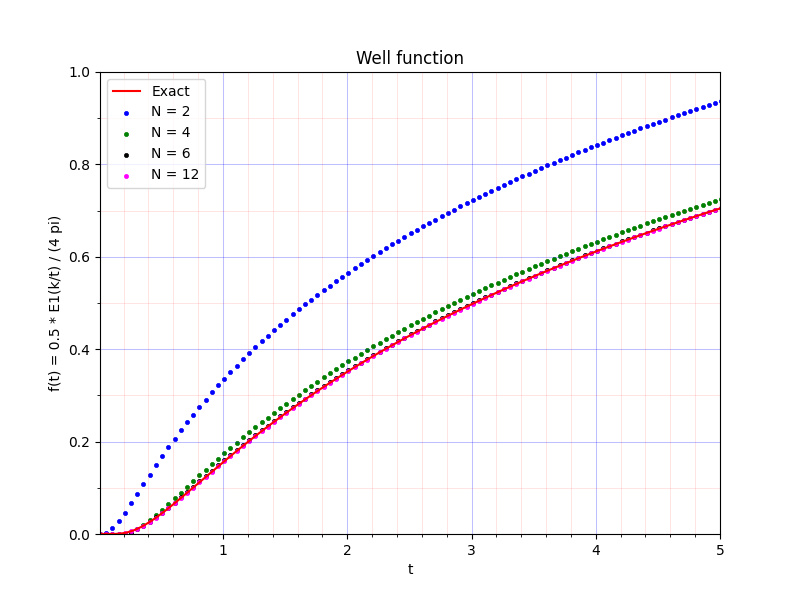
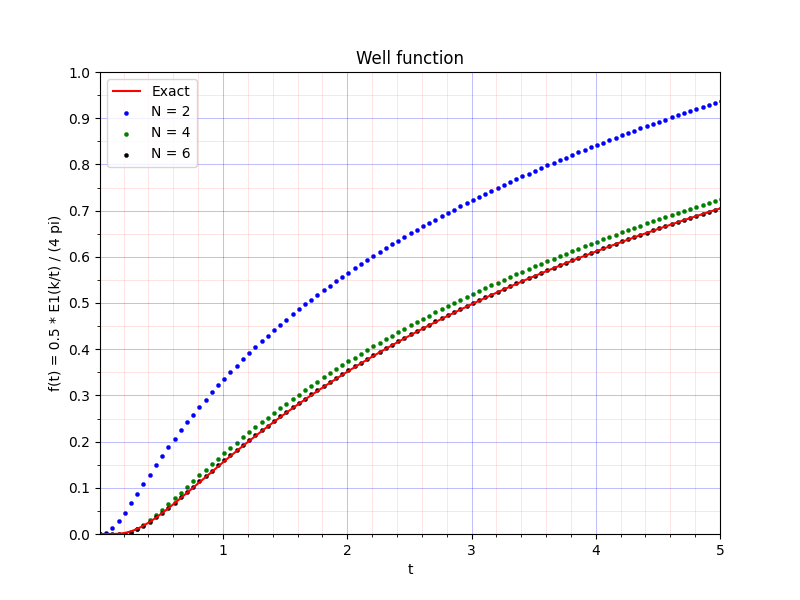
laplace.tex : Sehfest discussion

diff --git a/Book/sandbox/laplace.tex b/Book/sandbox/laplace.tex
@@ -481,10 +481,142 @@
 		\end{equation}
 		
 		Since the coefficients $V_i$ only depend on the value of $N$, so they only need to be calculated once. The value of $N$ must be even.
+		
+		The values of Stehfest's coefficients for a few values of $N$ are given in Table \ref*{tab:Stehfest coefficients}.
+		
+		\begin{table}[H]\label{tab:Stehfest coefficients}
+			\centering
+			\caption{Table of coefficients in Stehfest's inversion method fo a few values of $N$}
+		\begin{tabular}{|r|r|r|r|r|r|r|}
+			\hline
+			i & N=2  & N=4     & N=6     & N=8            & N=10            & N=12\\
+			\hline
+			1 &  2.0 &   -2.0  &     1.0 &      -0.333333 &        0.083333 &  -1.666667e-02 \\
+			2 & -2.0 &   26.0  &   -49.0 &      48.333333 &      -32.083333 &   1.601667e+01 \\
+			3 &      &   -48.0 &   366.0 &    -906.000000 &     1279.000000 &  -1.247000e+03 \\
+			4 &      &    24.0 &  -858.0 &    5464.666667 &   -15623.666667 &   2.755433e+04 \\
+			5 &      &         &   810.0 &  -14376.666667 &    84244.166667 &  -2.632808e+05 \\
+			6 &      &         &  -270.0 &   18730.000000 &  -236957.500000 &   1.324139e+06 \\
+			7 &      &         &         &  -11946.666667 &   375911.666667 &  -3.891706e+06 \\
+			8 &      &         &         &    2986.666667 &  -340071.666667 &   7.053286e+06 \\
+			9 &      &         &         &                &   164062.500000 &  -8.005336e+06 \\
+			10 &     &         &         &                &   -32812.500000 &   5.552830e+06 \\
+			11 &     &         &         &                &                 &  -2.155507e+06 \\
+			12 &     &         &         &                &                 &   3.592512e+05 \\
+			\hline
+		\end{tabular}			
+		\end{table}
+		
+
+		
 			A Python implementation of Stehfest's algorithm is contained in the \texttt{lilimod} library (\texttt{lilimaths/stehfest.py}).
 			
 			\subsubsection{Examples of application of Stehfest's method}
-		
+			
+			\paragraph{Exponential Decay\\~}
+			Laplace image: $F(p) = \frac{1}{1 + p}.$ Exact Laplace original: $f(t) = \E^{-t}.$ \\
+			
+			The results of numerical inversion are shown in Figure \ref{fig:stehfestexponentialdecay}. In this case, even with a relatively lower value of N=6 the results are already very accurate.
+			
+			\begin{figure}[H]
+				\centering
+				\includegraphics[width=0.85\linewidth]{../figures/part_1/stehfest_exponential_decay}
+				\caption{Results of numerical Laplace inversion by Stehfest's method for exponential decay.}
+				\label{fig:stehfestexponentialdecay}
+			\end{figure}
+			
+			\paragraph{Sine function\\}
+			Laplace image: $F(p) = \frac{1}{1 + p^2}.$ Exact Laplace original: $f(t) = \sin t.$ \\
+			
+			The results of numerical inversion for this case shown in Figure \ref{fig:stehfestsine} behave differently as compared with the previous case. Whereas the deviation from the exact function in the beginning of the curve ($0 \leq t \lesssim 1.2 $) are reasonably accurate, accuracy drastically falls as the value of the argument grows. Even with the values of order as high as 22, the deviation from the exact solution becomes too high already after the first full oscillation.
+			\begin{figure}[H]
+				\centering
+				\includegraphics[width=0.85\linewidth]{../figures/part_1/stehfest_sine}
+				\caption{Results of numerical Laplace inversion by Stehfest's method for sine function.}
+				\label{fig:stehfestsine}
+			\end{figure}
+			
+			\paragraph{Damped sine function\\}
+			Laplace image: $F(p) = \frac{1}{1 + (p+0.2)^2}.$ Exact Laplace original: $f(t) = \E^{-0.2 t}\sin t.$ \\
+			
+			\begin{figure}[H]
+				\centering
+				\includegraphics[width=0.85\linewidth]{../figures/part_1/stehfest_damped_sine}
+				\caption{Results of numerical Laplace inversion by Stehfest's method for damped sine function.}
+				\label{fig:stehfestdampedsine}
+			\end{figure}
+			
+			The results of numerical inversion for the damped sine curve are shown in Figure \ref{fig:stehfestdampedsine}. Adding a little damping to the process improves the convergence, to an extent, as can bee seen from the behavior of the curves. Nevertheless, the deviations from the exact curve are still significant and tend to become greater as long as the value of time grows.
+			
+			\paragraph{Linear growth\\}
+			Laplace image: $F(p) = \frac{1}{p^2}.$ Exact Laplace original: $f(t) = t.$ \\
+			
+			\begin{figure}[H]
+				\centering
+				\includegraphics[width=0.85\linewidth]{../figures/part_1/stehfest_linear_growth}
+				\caption{Results of numerical Laplace inversion by Stehfest's method for linear function.}
+				\label{fig:stehfestlineargrowth}
+			\end{figure}
+			
+			The results of numerical inversion are shown in Figure \ref{fig:stehfestlineargrowth}. For the case of linear function, even with a relatively lower value of N=6 the results are already very accurate.
+			
+			\paragraph{Asymmetric distribution\\}
+			Laplace image: $F(p) = \frac{1}{(p + 1)^2}.$ Exact Laplace original: $f(t) = t \E^{-t}.$ \\
+			\begin{figure}[H]
+				\centering
+				\includegraphics[width=0.85\linewidth]{../figures/part_1/stehfest_asymmetric_distribution}
+				\caption{Results of numerical Laplace inversion by Stehfest's method for asymmetric distribution.}
+				\label{fig:stehfestasymmetricdistribution}
+			\end{figure}
+			
+			The results of numerical inversion are shown in Figure \ref{fig:stehfestasymmetricdistribution}. As can bee seen, the results become reasonably accurate with the values of $N \geq 10.$
+			
+			\paragraph{Delayed unitary step\\}
+			Laplace image: $F(p) = \frac{\E^{-p}}{p}.$ Exact Laplace original: $f(t) = H(t-1).$ \\
+			
+			\begin{figure}[H]
+				\centering
+				\includegraphics[width=0.85\linewidth]{../figures/part_1/stehfest_delayed_step}
+				\caption{Results of numerical Laplace inversion by Stehfest's method for delayed unitary step.}
+				\label{fig:stehfestdelayedstep}
+			\end{figure}
+			
+			The results of numerical inversion are shown in Figure \ref{fig:stehfestdelayedstep}. Although the accuracy of the computed values of $f(t)$ with big values of time $t \geq 2.5 $can be considered as more or less accurate, behavior of the calculate curves in the vicinity of the original's breakpoint at $t = 1.$ This behavior cannot be improved by increasing of the order of integration. As can be seen from Table \ref{tab:Stehfest coefficients} the values if coefficients rapidly grow to very big values, as the order $N$ grows, which causes numerical instability due to rounding errors in the machine representation of float numbers.
+			
+			\paragraph{Rectangular wave\\}
+			Laplace image: $F(p) = \frac{(\E^{-p} - \E^{-2p})}{p}.$ Exact Laplace original: $f(t) = H(t-1) - H(t-2).$ \\
+			
+			
+			\begin{figure}[H]
+				\centering
+				\includegraphics[width=0.85\linewidth]{../figures/part_1/stehfest_rectanhular_wave}
+				\caption{Results of numerical Laplace inversion by Stehfest's method for rectangular wave}
+				\label{fig:stehfestrectanhularwave}
+			\end{figure}
+			
+			Like in the case of delayed step, the behavior of the Stehfest approximated originals is far from satisfactory. Whereas in the vicinity of $t=0$ and with gig values of time the accuracy can be considered acceptable, the form of rectangular wave cannot be computed by Stehfest integration method. In this particular case, even the value of integration order as high as 26 did not do better. Further increase in the value of $N$ creates numerical instability, as is shown in Figure \ref{fig:stehfestrectanhularwaveunstable}.
+			
+			\begin{figure}[H]
+				\centering
+				\includegraphics[width=0.85\linewidth]{../figures/part_1/stehfest_rectanhular_wave_unstable}
+				\caption{Numerical instability of Stehfest's method for rectangular wave with too high values of integration order.}
+				\label{fig:stehfestrectanhularwaveunstable}
+			\end{figure}
+			
+			Setting $N=28$ for the previous example created numerical instability illustrated by the chaotic cloud of black points in the right part of the graph in Figure \ref{fig:stehfestrectanhularwaveunstable}.
+			
+			\paragraph{Well function\\}
+			Laplace image: $F(p) = \frac{1}{p} K_0\left( 2 \sqrt{0.8 p} \right).$ Exact Laplace original: $f(t) = 0.5 E_1\left( \frac{0.8}{t} \right).$ \\
+			
+			\begin{figure}[H]
+				\centering
+				\includegraphics[width=0.85\linewidth]{../figures/part_1/stehfest_well_function}
+				\caption{Results of numerical Laplace inversion by Stehfest's method for the well function}
+				\label{fig:stehfestwellfunction}
+			\end{figure}
+			
+			The results of numerical inversion are shown in Figure \ref{fig:stehfestwellfunction}. As can bee seen, the results become quite accurate already with the values of $N \geq 6.$
+			
 		\subsection{Method of den Iseger}
 		\subsection{Historical Methods}
 

diff --git a/Code/lilimaths/lilimaths/stehfest_tests.py b/Code/lilimaths/lilimaths/stehfest_tests.py
@@ -63,11 +63,17 @@ if __name__ == '__main__':
     def exponent_original(t: float) -> float:
         return exp(-t)
 
-    def decaying_sine_image(p: float) -> float:
-        return 1 / (1 + (p + 0.5)**2)
+    def sine_image(p: float) -> float:
+        return 1 / (1 + p**2)
 
-    def decaying_sine_original(t: float) -> float:
-        return exp(-0.5 * t) * sin(t)
+    def sine_original(t: float) -> float:
+        return sin(t)
+
+    def damped_sine_image(p: float) -> float:
+        return 1 / (1 + (p + 0.2)**2)
+
+    def damped_sine_original(t: float) -> float:
+        return exp(-0.2 * t) * sin(t)
 
     def linear_image(p: float) -> float:
         return 1 / p**2
@@ -102,7 +108,8 @@ if __name__ == '__main__':
 
     images              = [
                             exponent_image,
-                            decaying_sine_image,
+                            sine_image,
+                            damped_sine_image,
                             linear_image,
                             exponent_multiplied_image,
                             rectangular_wave_image,
@@ -112,7 +119,8 @@ if __name__ == '__main__':
 
     originals           = [
                             exponent_original,
-                            decaying_sine_original,
+                            sine_original,
+                            damped_sine_original,
                             linear_original,
                             exponent_multiplied_original,
                             rectangular_wave_origin,
@@ -122,17 +130,19 @@ if __name__ == '__main__':
 
     titles              = [
                             "Exponential decay",
-                            "Sinusoidal decay",
-                            "Linear function",
-                            "Exponent multiplied",
+                            "Sine curve",
+                            "Damped sine",
+                            "Linear growth",
+                            "Asymmetric distribution",
+                            "Delayed step function",
                             "Rectangular wave",
-                            "Finite rectangular wave",
                             "Well function"
                           ]
 
     original_equations  = [
                             'exp(-t)',
-                            'exp(-0.5t) * sin (t)',
+                            'sin (t)',
+                            'exp(-0.2t) * sin (t)',
                             't',
                             't * exp(-t)',
                             'H(t-1)',
@@ -142,9 +152,9 @@ if __name__ == '__main__':
 
     t_fin = 5
     dt = 0.01
-    context_index = 6
+    context_index = 7
 
-    test_context(images[context_index], [2, 4, 6, 12, 18, 22], originals[context_index], t_fin, dt,
+    test_context(images[context_index], [2, 4, 6], originals[context_index], t_fin, dt,
                  size = (8, 6),
                  min_x=dt,
                  max_x=t_fin,
@@ -153,8 +163,8 @@ if __name__ == '__main__':
                  digits_x=0,
                  major_step_x = 1,
                  minor_step_x = 0.2,
-                 major_step_y=0.2,
-                 minor_step_y=0.1,
+                 major_step_y = 0.1,
+                 minor_step_y=0.05,
                  title=titles[context_index],
                  label_x = 't',
                  label_y = f'f(t) = {original_equations[context_index]}'

diff --git a/Code/lilimaths/lilimaths/stehfest.py b/Code/lilimaths/lilimaths/stehfest.py
@@ -18,6 +18,10 @@ class Stehfest:
         self._order = order
         self._initialize()
 
+    @property
+    def coefficients(self):
+        return self._coefficients
+
     def invert(self, image: callable, t: float) -> float:
         """
         Calculates the value of the original by inverting the Laplace image.
@@ -69,23 +73,12 @@ class Stehfest:
     #endregion
 
 if __name__ == '__main__':
-    def image(p: float) -> float:
-        return 1.0 / (1 + p)
+    import pandas as pd
 
-    sf = Stehfest(6)
+    for N in [2, 4, 6, 8, 10, 12]:
+        sf = Stehfest(N)
+        V = sf.coefficients
 
-    t = 1
+        df = pd.DataFrame(list(enumerate(V)), columns=["i", "V_i"])
 
-    value = sf.invert(image, t)
-
-    print(value, math.exp(-t))
-
-    t = 0.001
-    while t < 5:
-        value = sf.invert(image, t)
-        expected = math.exp(-t)
-        delta = value - expected
-        percent = delta * 100
-
-        print(t, percent)
-        t += 0.2
+        print(df)

diff --git a/Code/liliutils/liliutils/plotter2.py b/Code/liliutils/liliutils/plotter2.py
@@ -75,7 +75,7 @@ class Plotter:
             if curve.kind == 'line':
                 self._ax.plot(x, y, linewidth=self._parameters['curve_width'], label=curve.label, antialiased=True, color=curve.color)
             else:
-                self._ax.scatter(x, y, color=curve.color, marker=curve.marker, linewidth=0.5, label=curve.label, antialiased=True)
+                self._ax.scatter(x, y, color=curve.color, marker=curve.marker, linewidth=0.25, label=curve.label, antialiased=True)
 
         self._ax.legend(loc='best')
 

diff --git a/Book/commands.tex b/Book/commands.tex
@@ -36,3 +36,5 @@
 \newcommand{\tfs}{transfer functions\xspace}
 \newcommand{\Tf}{Transfer function\xspace}
 
+\newcommand{\E}{\mathrm{e}}
+
